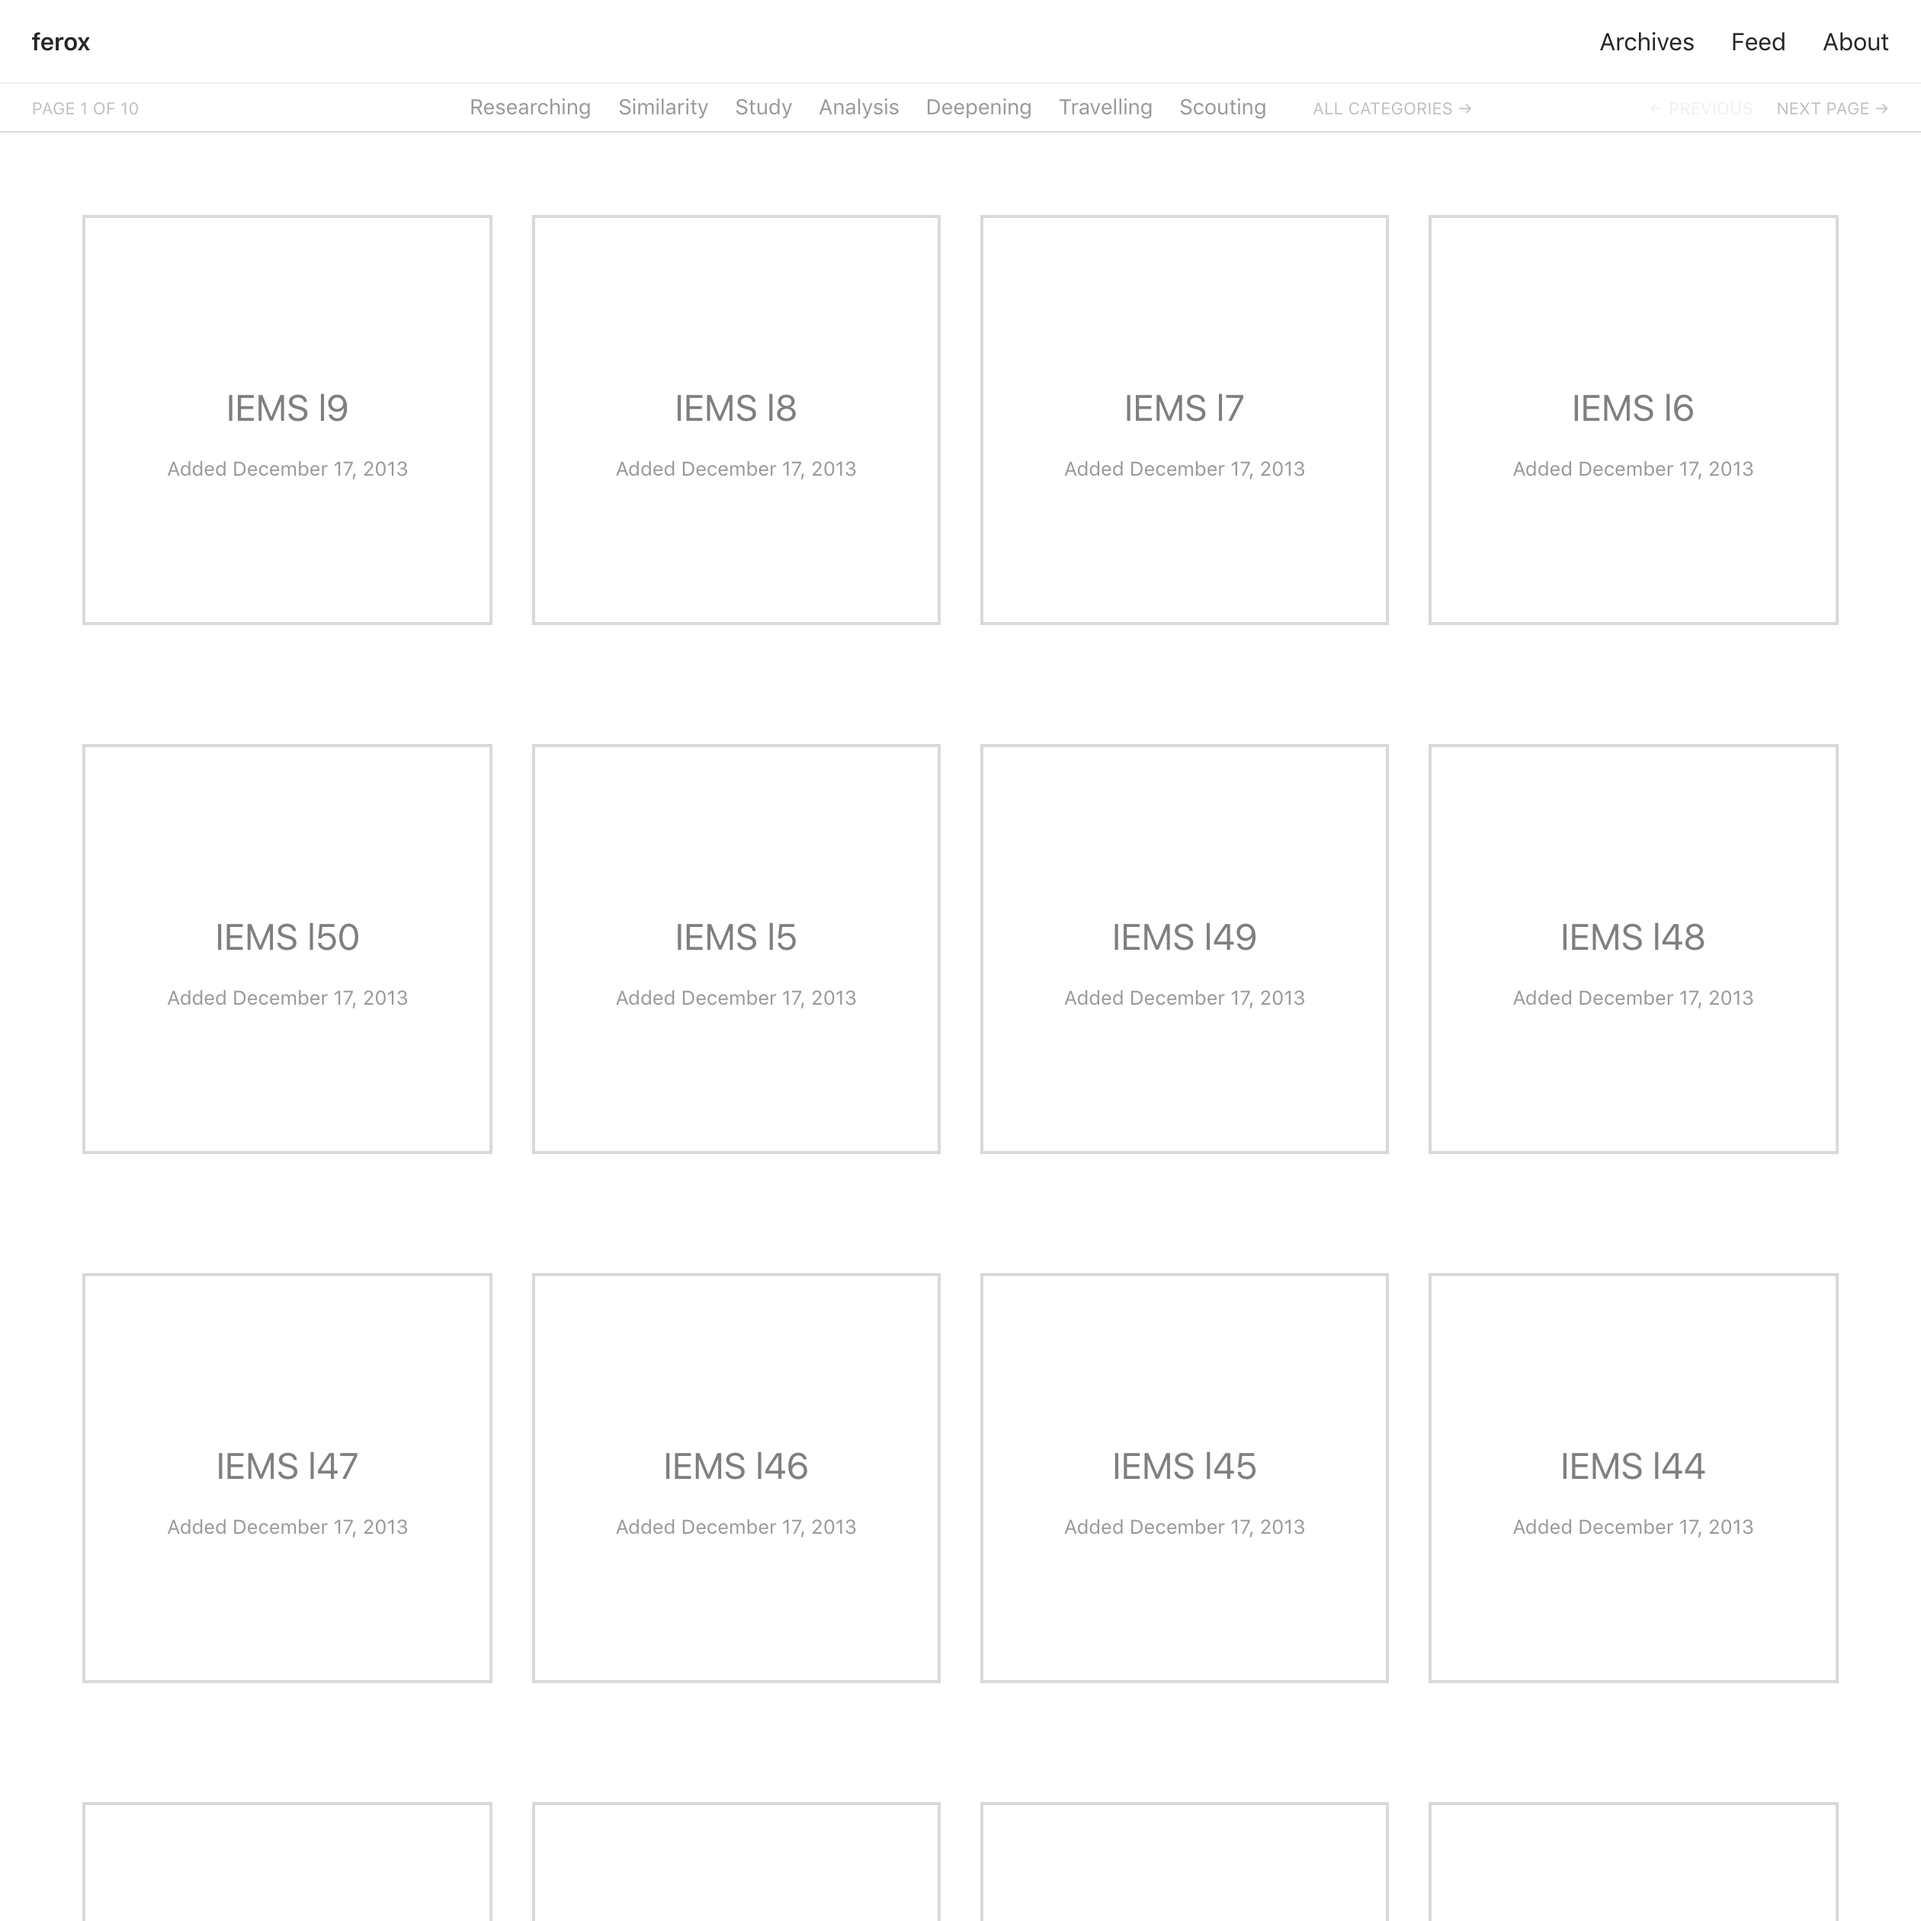
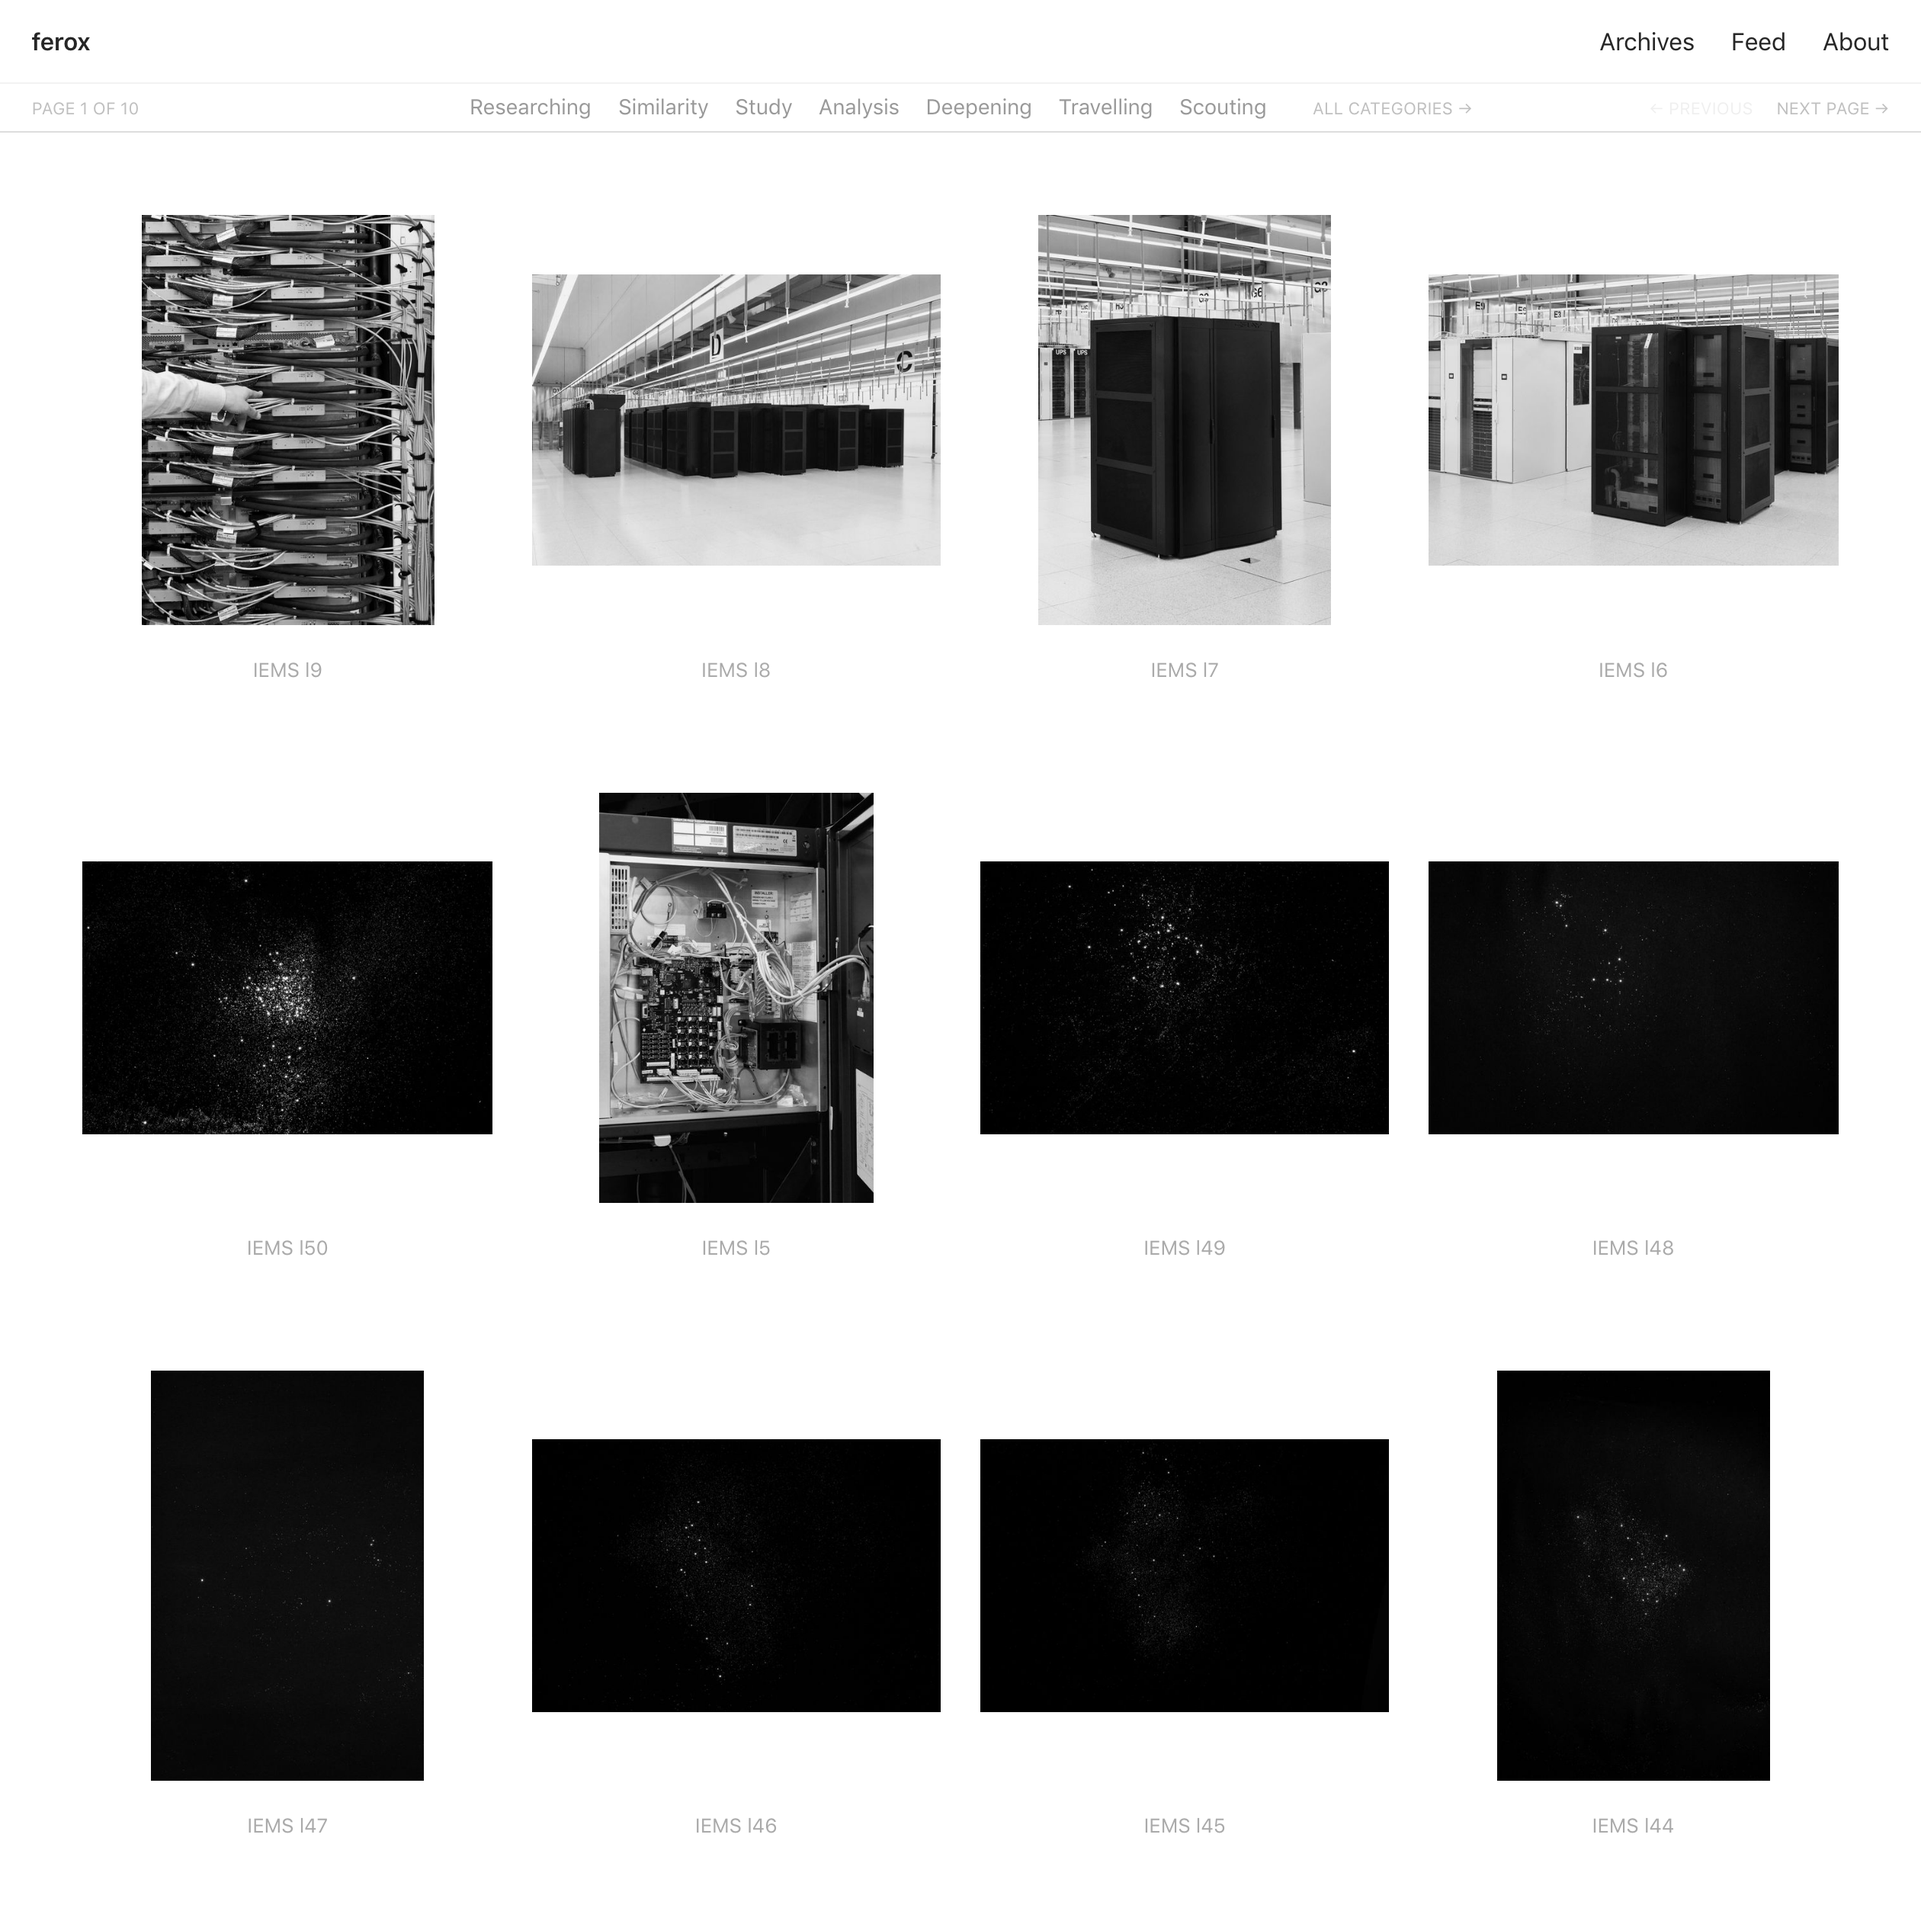
Updates screenshots in brochure

diff --git a/scripts/template/screenshots.js b/scripts/template/screenshots.js
@@ -1,6 +1,5 @@
 const helper = require("helper");
 const screenshot = helper.screenshot;
-const hash = helper.hash;
 const async = require("async");
 const config = require("config");
 const VIEW_DIRECTORY = helper.rootDir + "/app/brochure/views/templates";
@@ -9,23 +8,23 @@ async.eachOfSeries(
 	{
 		diary: {
 			handle: "bjorn",
-			pages: ["/"],
+			pages: ["/", "/search?q=fishing"],
 		},
 		essay: {
 			handle: "interviews",
-			pages: ["/"],
+			pages: ["/", "/ingrid-newkirk"],
 		},
 		magazine: {
 			handle: "interviews",
-			pages: ["/"],
+			pages: ["/", "/archives"],
 		},
 		picture: {
-			handle: "ferox",
-			pages: ["/"],
+			handle: "bjorn",
+			pages: ["/", "/archives"],
 		},
 		scrapbook: {
 			handle: "ferox",
-			pages: ["/"],
+			pages: ["/", "/iems-l13-3"],
 		},
 	},
 	function({ handle, pages }, template, next) {
@@ -33,7 +32,7 @@ async.eachOfSeries(
 		async.eachSeries(
 			pages,
 			function(page, next) {
-				const url = baseURL + pages;
+				const url = baseURL + page;
 				const path = `${VIEW_DIRECTORY}/${template}/${handle}-${pages.indexOf(
 					page
 				)}.png`;

diff --git a/app/helper/screenshot.js b/app/helper/screenshot.js
@@ -1,4 +1,7 @@
 const puppeteer = require("puppeteer");
+const imagemin = require("imagemin");
+const imageminPngquant = require("imagemin-pngquant");
+const dirname = require('path').dirname;
 
 async function main(site, path, callback) {
 	const width = 1260;
@@ -17,6 +20,9 @@ async function main(site, path, callback) {
 		await page.goto(site);
 		await page.screenshot({ path: path });
 		await browser.close();
+		await imagemin([path], dirname(path), {
+			plugins: [imageminPngquant()],
+		});
 	} catch (e) {
 		return callback(e);
 	}
